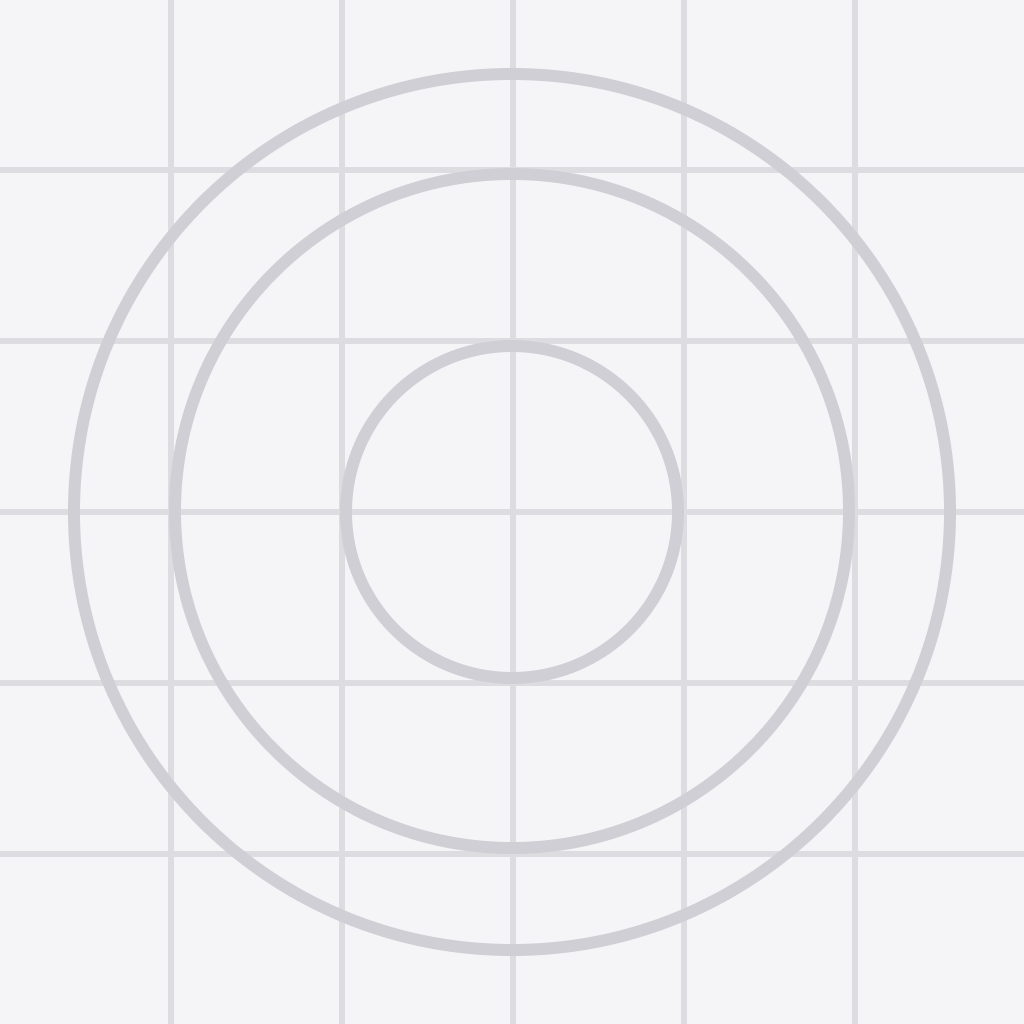
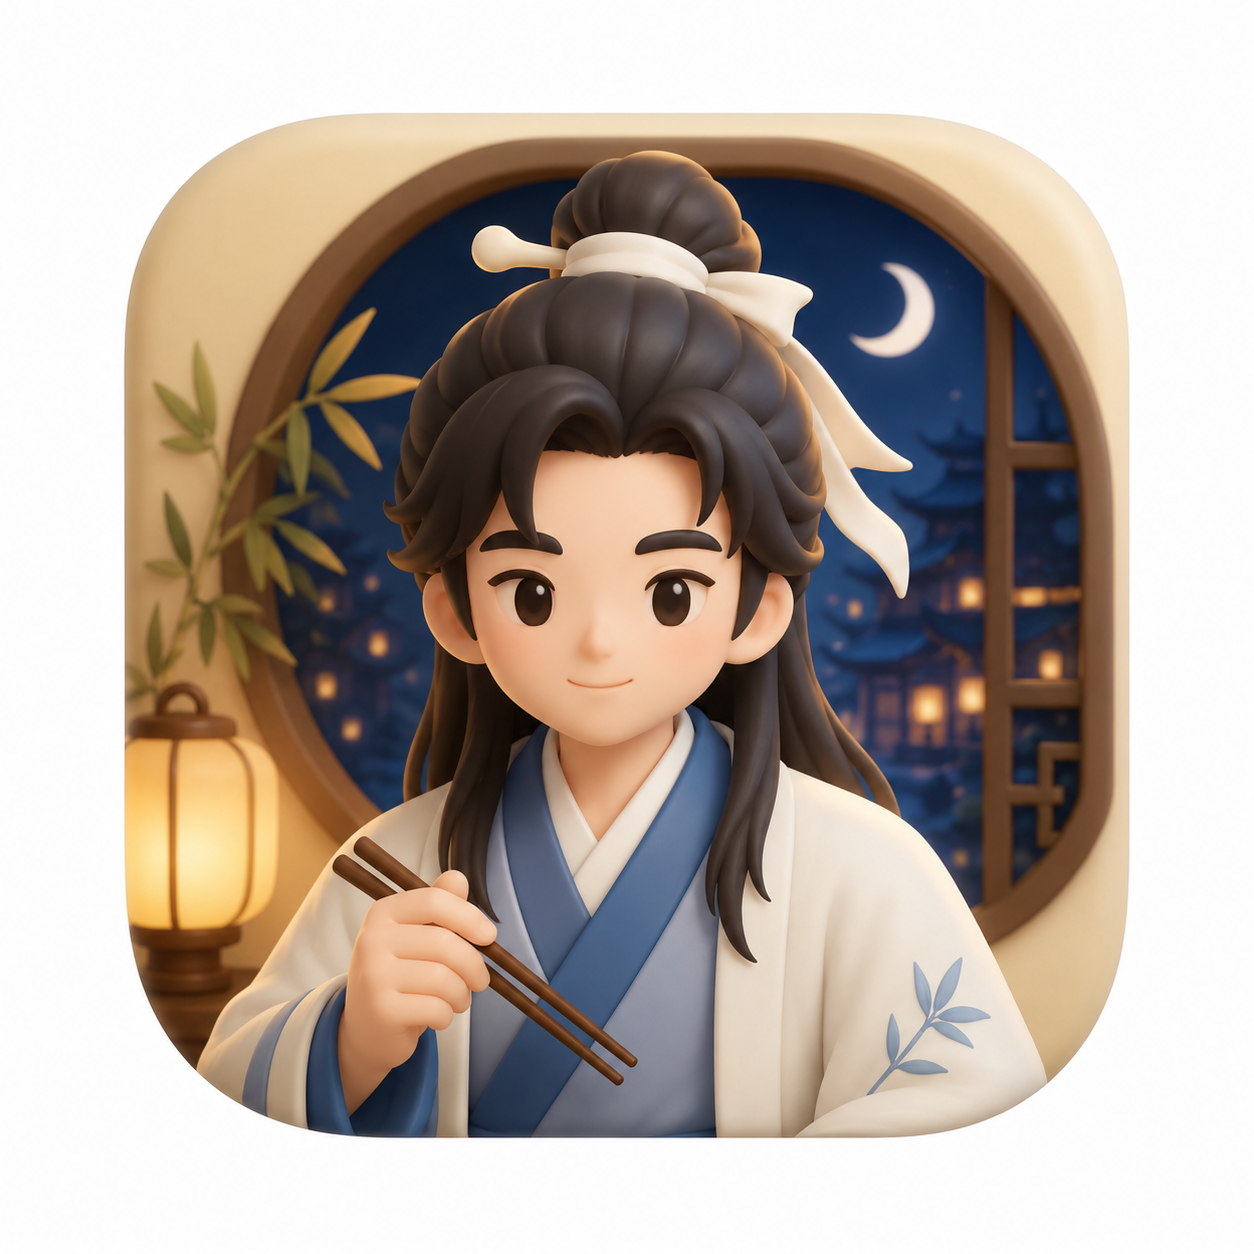
优化Dockerfile: 添加国内镜像源加速构建, 更新前端资源

diff --git a/app/src/screens/HomeScreen.tsx b/app/src/screens/HomeScreen.tsx
@@ -1,4 +1,4 @@
-import React, { useEffect, useRef, useState, useCallback } from 'react';
+import React, { useEffect, useRef, useState, useCallback } from 'react';
 import {
   View,
   Text,
@@ -10,6 +10,8 @@ import {
   Dimensions,
   Linking,
   TouchableOpacity,
+  Modal,
+  FlatList,
   Platform,
   AppState,
   AppStateStatus,
@@ -306,25 +308,30 @@ export default function HomeScreen() {
     };
   }, []);
 
+  const [announcements, setAnnouncements] = useState<any[]>([]);
+  const [showAnnouncements, setShowAnnouncements] = useState(false);
+
   useEffect(() => {
     const checkAnnouncements = async () => {
       try {
-        const announcements = await apiService.getAnnouncements();
+        const anns = await apiService.getAnnouncements();
+        setAnnouncements(anns);
         const readIds = useAppStore.getState().readAnnouncementIds;
-        const unread = announcements.find(
+        const unreadHigh = anns.find(
           (a: any) => a.priority === 'high' && !readIds.includes(a.id)
         );
-        if (unread) {
+        if (unreadHigh) {
           Alert.alert(
-            unread.title,
-            unread.content,
+            unreadHigh.title,
+            unreadHigh.content,
             [{
               text: '我知道了',
               onPress: async () => {
                 try {
-                  await apiService.markAnnouncementRead(unread.id);
+                  await apiService.markAnnouncementRead(unreadHigh.id);
                 } catch {}
-                useAppStore.getState().markAnnouncementReadId(unread.id);
+                useAppStore.getState().markAnnouncementReadId(unreadHigh.id);
+                setAnnouncements(prev => prev.map(a => a.id === unreadHigh.id ? {...a, is_read: true} : a));
               }
             }]
           );
@@ -1132,6 +1139,18 @@ export default function HomeScreen() {
 
           <View ref={topBarRef} style={styles.topBarRight}>
             <IconButton
+              icon={
+                <View>
+                  <Ionicons name="notifications-outline" size={18} color={colors.text} />
+                  {announcements.some(a => !a.is_read && !useAppStore.getState().readAnnouncementIds.includes(a.id)) && (
+                    <View style={styles.notificationDot} />
+                  )}
+                </View>
+              }
+              onPress={() => setShowAnnouncements(true)}
+              size="sm"
+            />
+            <IconButton
               icon={<Ionicons name="time-outline" size={18} color={colors.text} />}
               onPress={() => navigation.navigate('SessionList')}
               size="sm"
@@ -1139,11 +1158,6 @@ export default function HomeScreen() {
             <IconButton
               icon={<Ionicons name="add-circle-outline" size={18} color={colors.text} />}
               onPress={handleNewConversation}
-              size="sm"
-            />
-            <IconButton
-              icon={<Ionicons name="medical-outline" size={18} color={colors.text} />}
-              onPress={() => navigation.navigate('Diagnostics')}
               size="sm"
             />
             <IconButton
@@ -1309,6 +1323,57 @@ export default function HomeScreen() {
           onSkip={handleOnboardingSkip}
           targetRefs={[tapAreaRef, statusIndicatorRef, topBarRef]}
         />
+
+        <Modal
+          visible={showAnnouncements}
+          transparent
+          animationType="fade"
+          onRequestClose={() => setShowAnnouncements(false)}
+        >
+          <View style={styles.announcementOverlay}>
+            <View style={styles.announcementContainer}>
+              <View style={styles.announcementHeader}>
+                <Text style={styles.announcementTitle}>系统公告</Text>
+                <TouchableOpacity onPress={() => setShowAnnouncements(false)}>
+                  <Ionicons name="close" size={24} color={colors.text} />
+                </TouchableOpacity>
+              </View>
+              <FlatList
+                data={announcements}
+                keyExtractor={(item) => item.id.toString()}
+                contentContainerStyle={styles.announcementList}
+                ListEmptyComponent={
+                  <Text style={styles.announcementEmpty}>暂无公告</Text>
+                }
+                renderItem={({ item }) => (
+                  <View style={[styles.announcementItem, item.is_read && styles.announcementItemRead]}>
+                    <View style={styles.announcementItemHeader}>
+                      <Text style={styles.announcementItemTitle}>{item.title}</Text>
+                      <View style={[styles.priorityDot, item.priority === 'high' && styles.priorityDotHigh, item.priority === 'normal' && styles.priorityDotNormal]} />
+                    </View>
+                    <Text style={styles.announcementItemContent}>{item.content}</Text>
+                    <View style={styles.announcementItemFooter}>
+                      <Text style={styles.announcementItemDate}>{item.created_at ? new Date(item.created_at).toLocaleDateString('zh-CN') : ''}</Text>
+                      {!item.is_read && (
+                        <TouchableOpacity
+                          onPress={async () => {
+                            try {
+                              await apiService.markAnnouncementRead(item.id);
+                            } catch {}
+                            useAppStore.getState().markAnnouncementReadId(item.id);
+                            setAnnouncements(prev => prev.map(a => a.id === item.id ? {...a, is_read: true} : a));
+                          }}
+                        >
+                          <Text style={styles.announcementMarkRead}>标为已读</Text>
+                        </TouchableOpacity>
+                      )}
+                    </View>
+                  </View>
+                )}
+              />
+            </View>
+          </View>
+        </Modal>
       </View>
   );
 }
@@ -1572,5 +1637,105 @@ const styles = StyleSheet.create({
     fontSize: typography.caption,
     lineHeight: 18,
     marginBottom: 2,
+  },
+  notificationDot: {
+    position: 'absolute',
+    top: -2,
+    right: -2,
+    width: 8,
+    height: 8,
+    borderRadius: 4,
+    backgroundColor: colors.gold || '#cdaa64',
+  },
+  announcementOverlay: {
+    flex: 1,
+    backgroundColor: 'rgba(0,0,0,0.5)',
+    justifyContent: 'center',
+    alignItems: 'center',
+  },
+  announcementContainer: {
+    width: '85%',
+    maxHeight: '70%',
+    backgroundColor: colors.card || '#1e1e28',
+    borderRadius: 16,
+    overflow: 'hidden',
+  },
+  announcementHeader: {
+    flexDirection: 'row',
+    justifyContent: 'space-between',
+    alignItems: 'center',
+    padding: 16,
+    borderBottomWidth: 1,
+    borderBottomColor: colors.border || 'rgba(255,255,255,0.1)',
+  },
+  announcementTitle: {
+    fontSize: 18,
+    fontWeight: '600',
+    color: colors.text,
+  },
+  announcementList: {
+    padding: 16,
+  },
+  announcementEmpty: {
+    color: colors.textSecondary || '#888',
+    textAlign: 'center',
+    paddingVertical: 40,
+    fontSize: 14,
+  },
+  announcementItem: {
+    backgroundColor: colors.background || '#15151c',
+    borderRadius: 12,
+    padding: 16,
+    marginBottom: 12,
+    borderLeftWidth: 3,
+    borderLeftColor: colors.gold || '#cdaa64',
+  },
+  announcementItemRead: {
+    opacity: 0.5,
+    borderLeftColor: colors.textSecondary || '#888',
+  },
+  announcementItemHeader: {
+    flexDirection: 'row',
+    alignItems: 'center',
+    justifyContent: 'space-between',
+    marginBottom: 8,
+  },
+  announcementItemTitle: {
+    fontSize: 16,
+    fontWeight: '600',
+    color: colors.text,
+    flex: 1,
+  },
+  priorityDot: {
+    width: 8,
+    height: 8,
+    borderRadius: 4,
+    backgroundColor: colors.textSecondary || '#888',
+  },
+  priorityDotHigh: {
+    backgroundColor: '#ef4444',
+  },
+  priorityDotNormal: {
+    backgroundColor: '#f59e0b',
+  },
+  announcementItemContent: {
+    fontSize: 14,
+    color: colors.textSecondary || '#aaa',
+    lineHeight: 20,
+    marginBottom: 10,
+  },
+  announcementItemFooter: {
+    flexDirection: 'row',
+    justifyContent: 'space-between',
+    alignItems: 'center',
+  },
+  announcementItemDate: {
+    fontSize: 12,
+    color: colors.textSecondary || '#666',
+  },
+  announcementMarkRead: {
+    fontSize: 13,
+    color: colors.gold || '#cdaa64',
+    fontWeight: '500',
   },
 });

diff --git a/app/src/screens/SettingsScreen.tsx b/app/src/screens/SettingsScreen.tsx
@@ -316,6 +316,14 @@ export default function SettingsScreen() {
         <AppCard padding={spacing.lg}>
           <TouchableOpacity
             style={[styles.row, { justifyContent: 'space-between' }]}
+            onPress={() => navigation.navigate('Diagnostics')}
+          >
+            <Text style={styles.label}>系统诊断</Text>
+            <Text style={styles.value}>进入 {'>'}</Text>
+          </TouchableOpacity>
+          <View style={styles.divider} />
+          <TouchableOpacity
+            style={[styles.row, { justifyContent: 'space-between' }]}
             onPress={() => navigation.navigate('TestMode')}
           >
             <Text style={styles.label}>ASR 连续对话测试</Text>